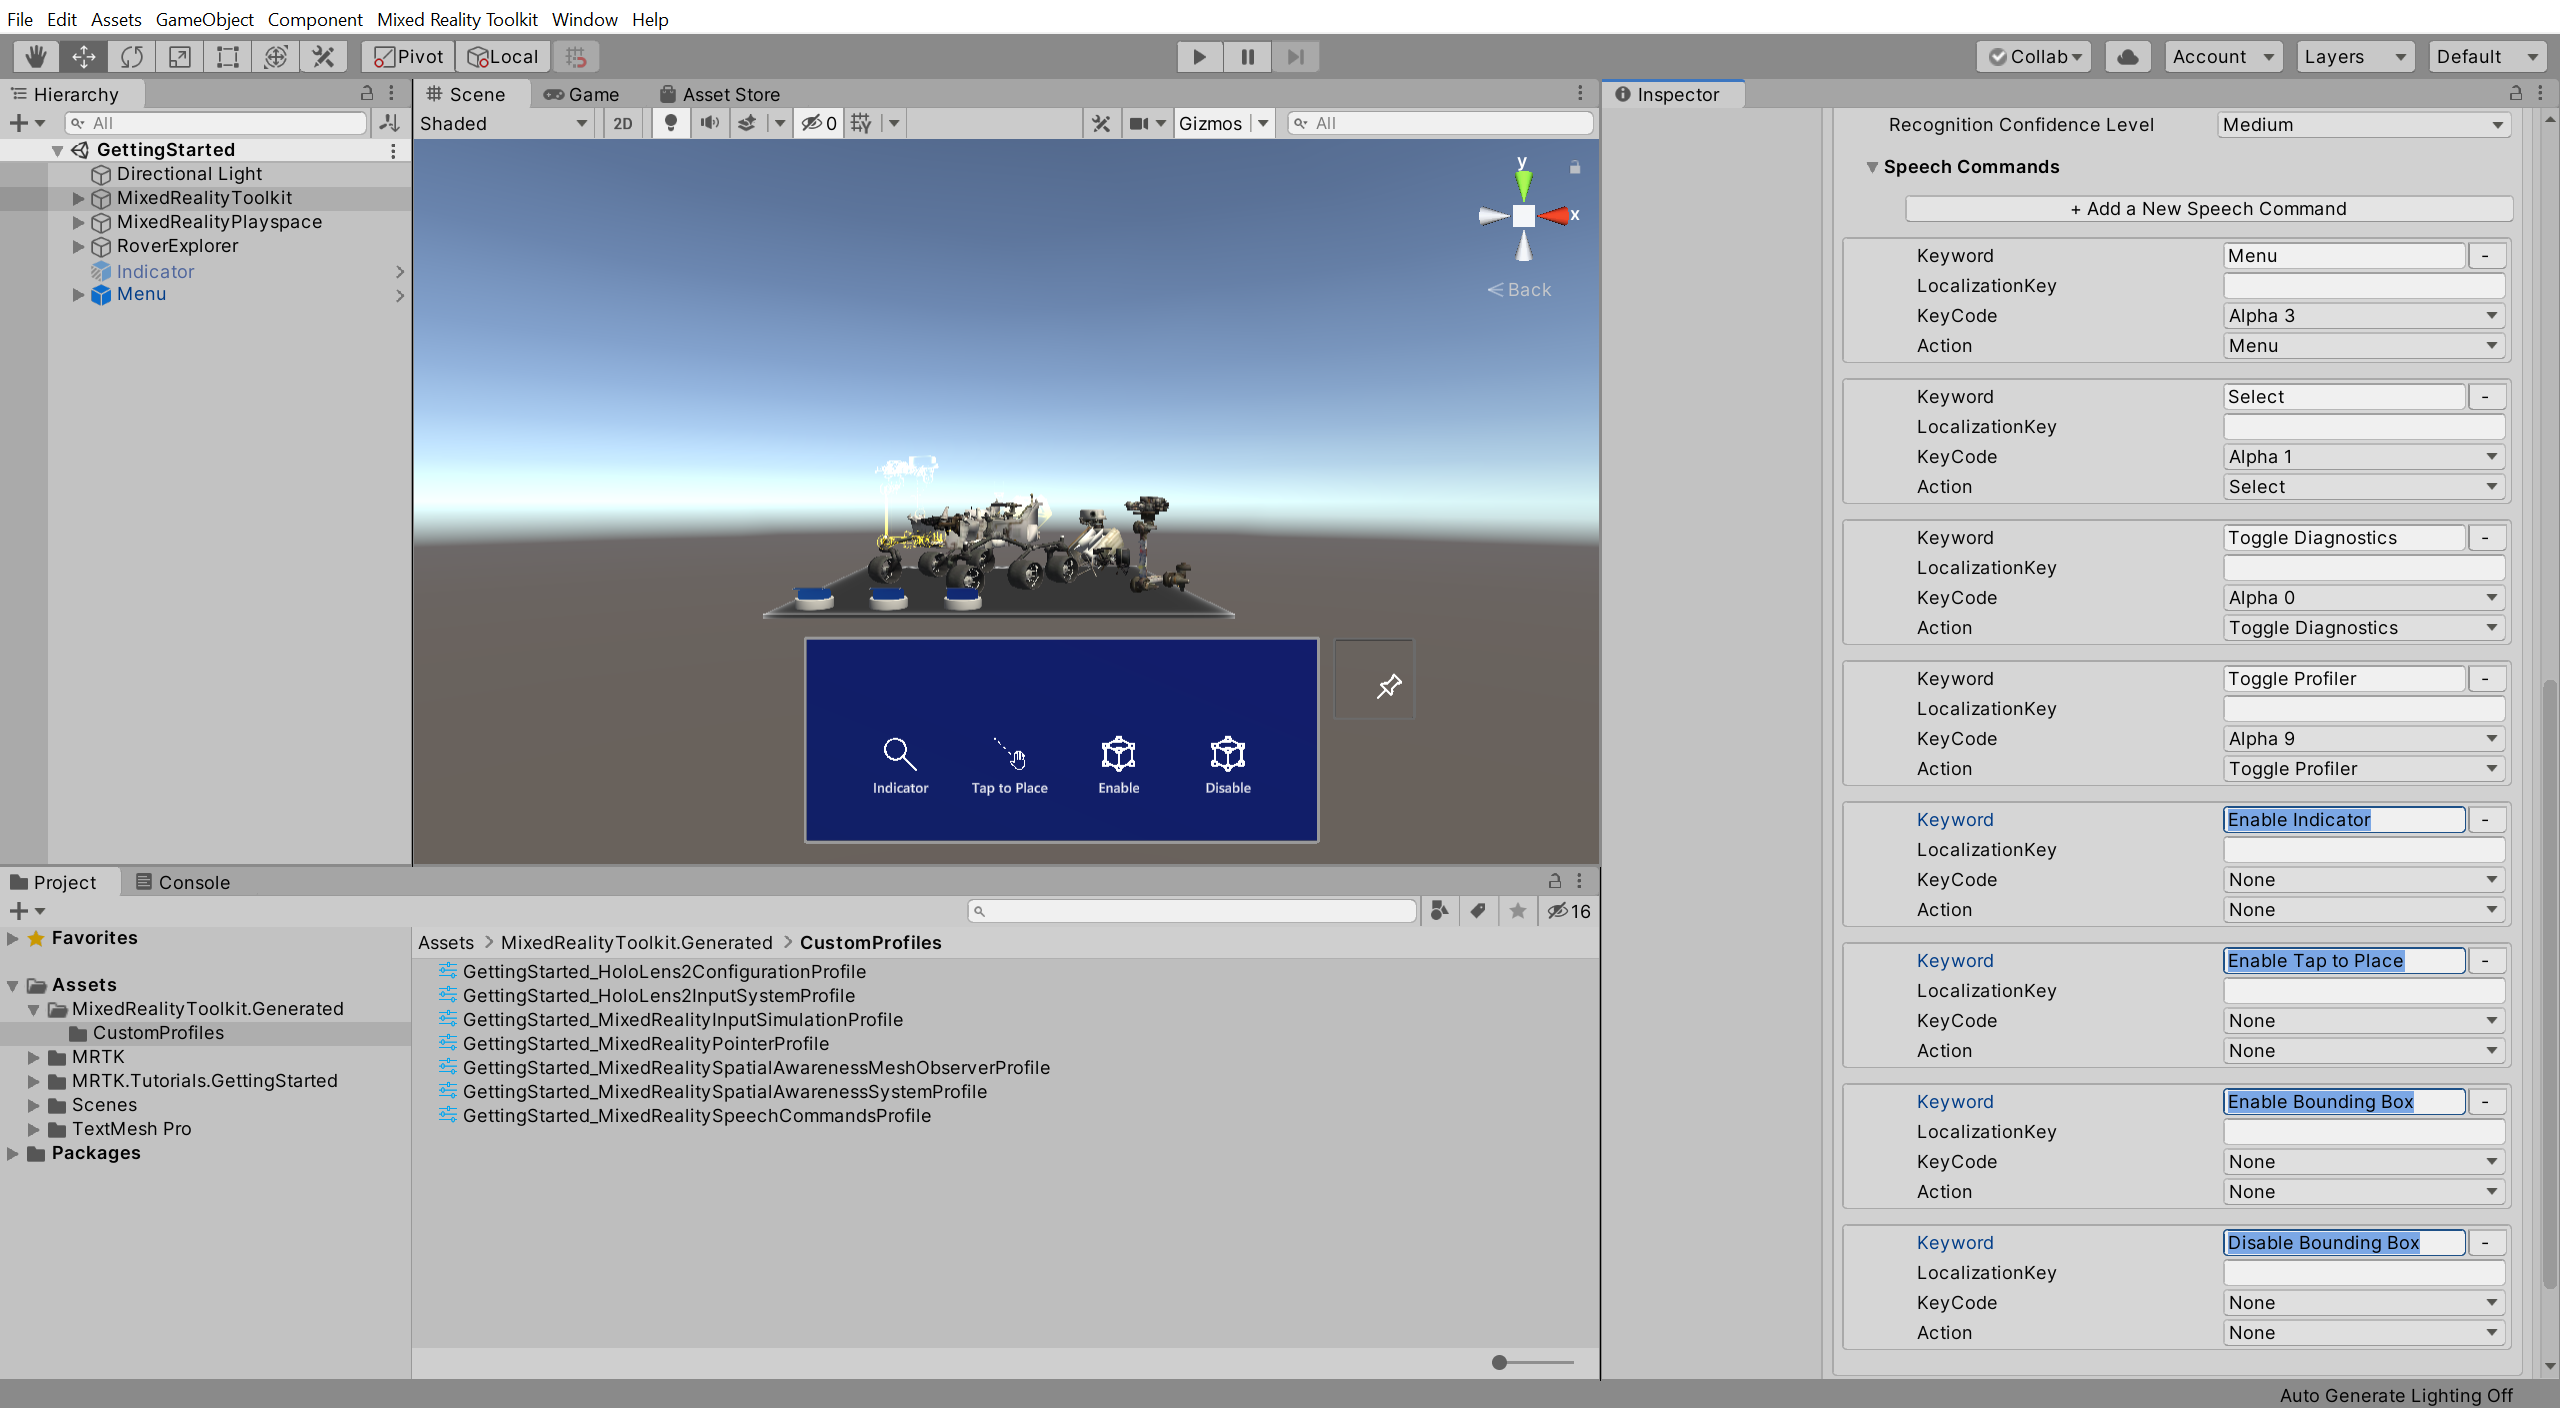
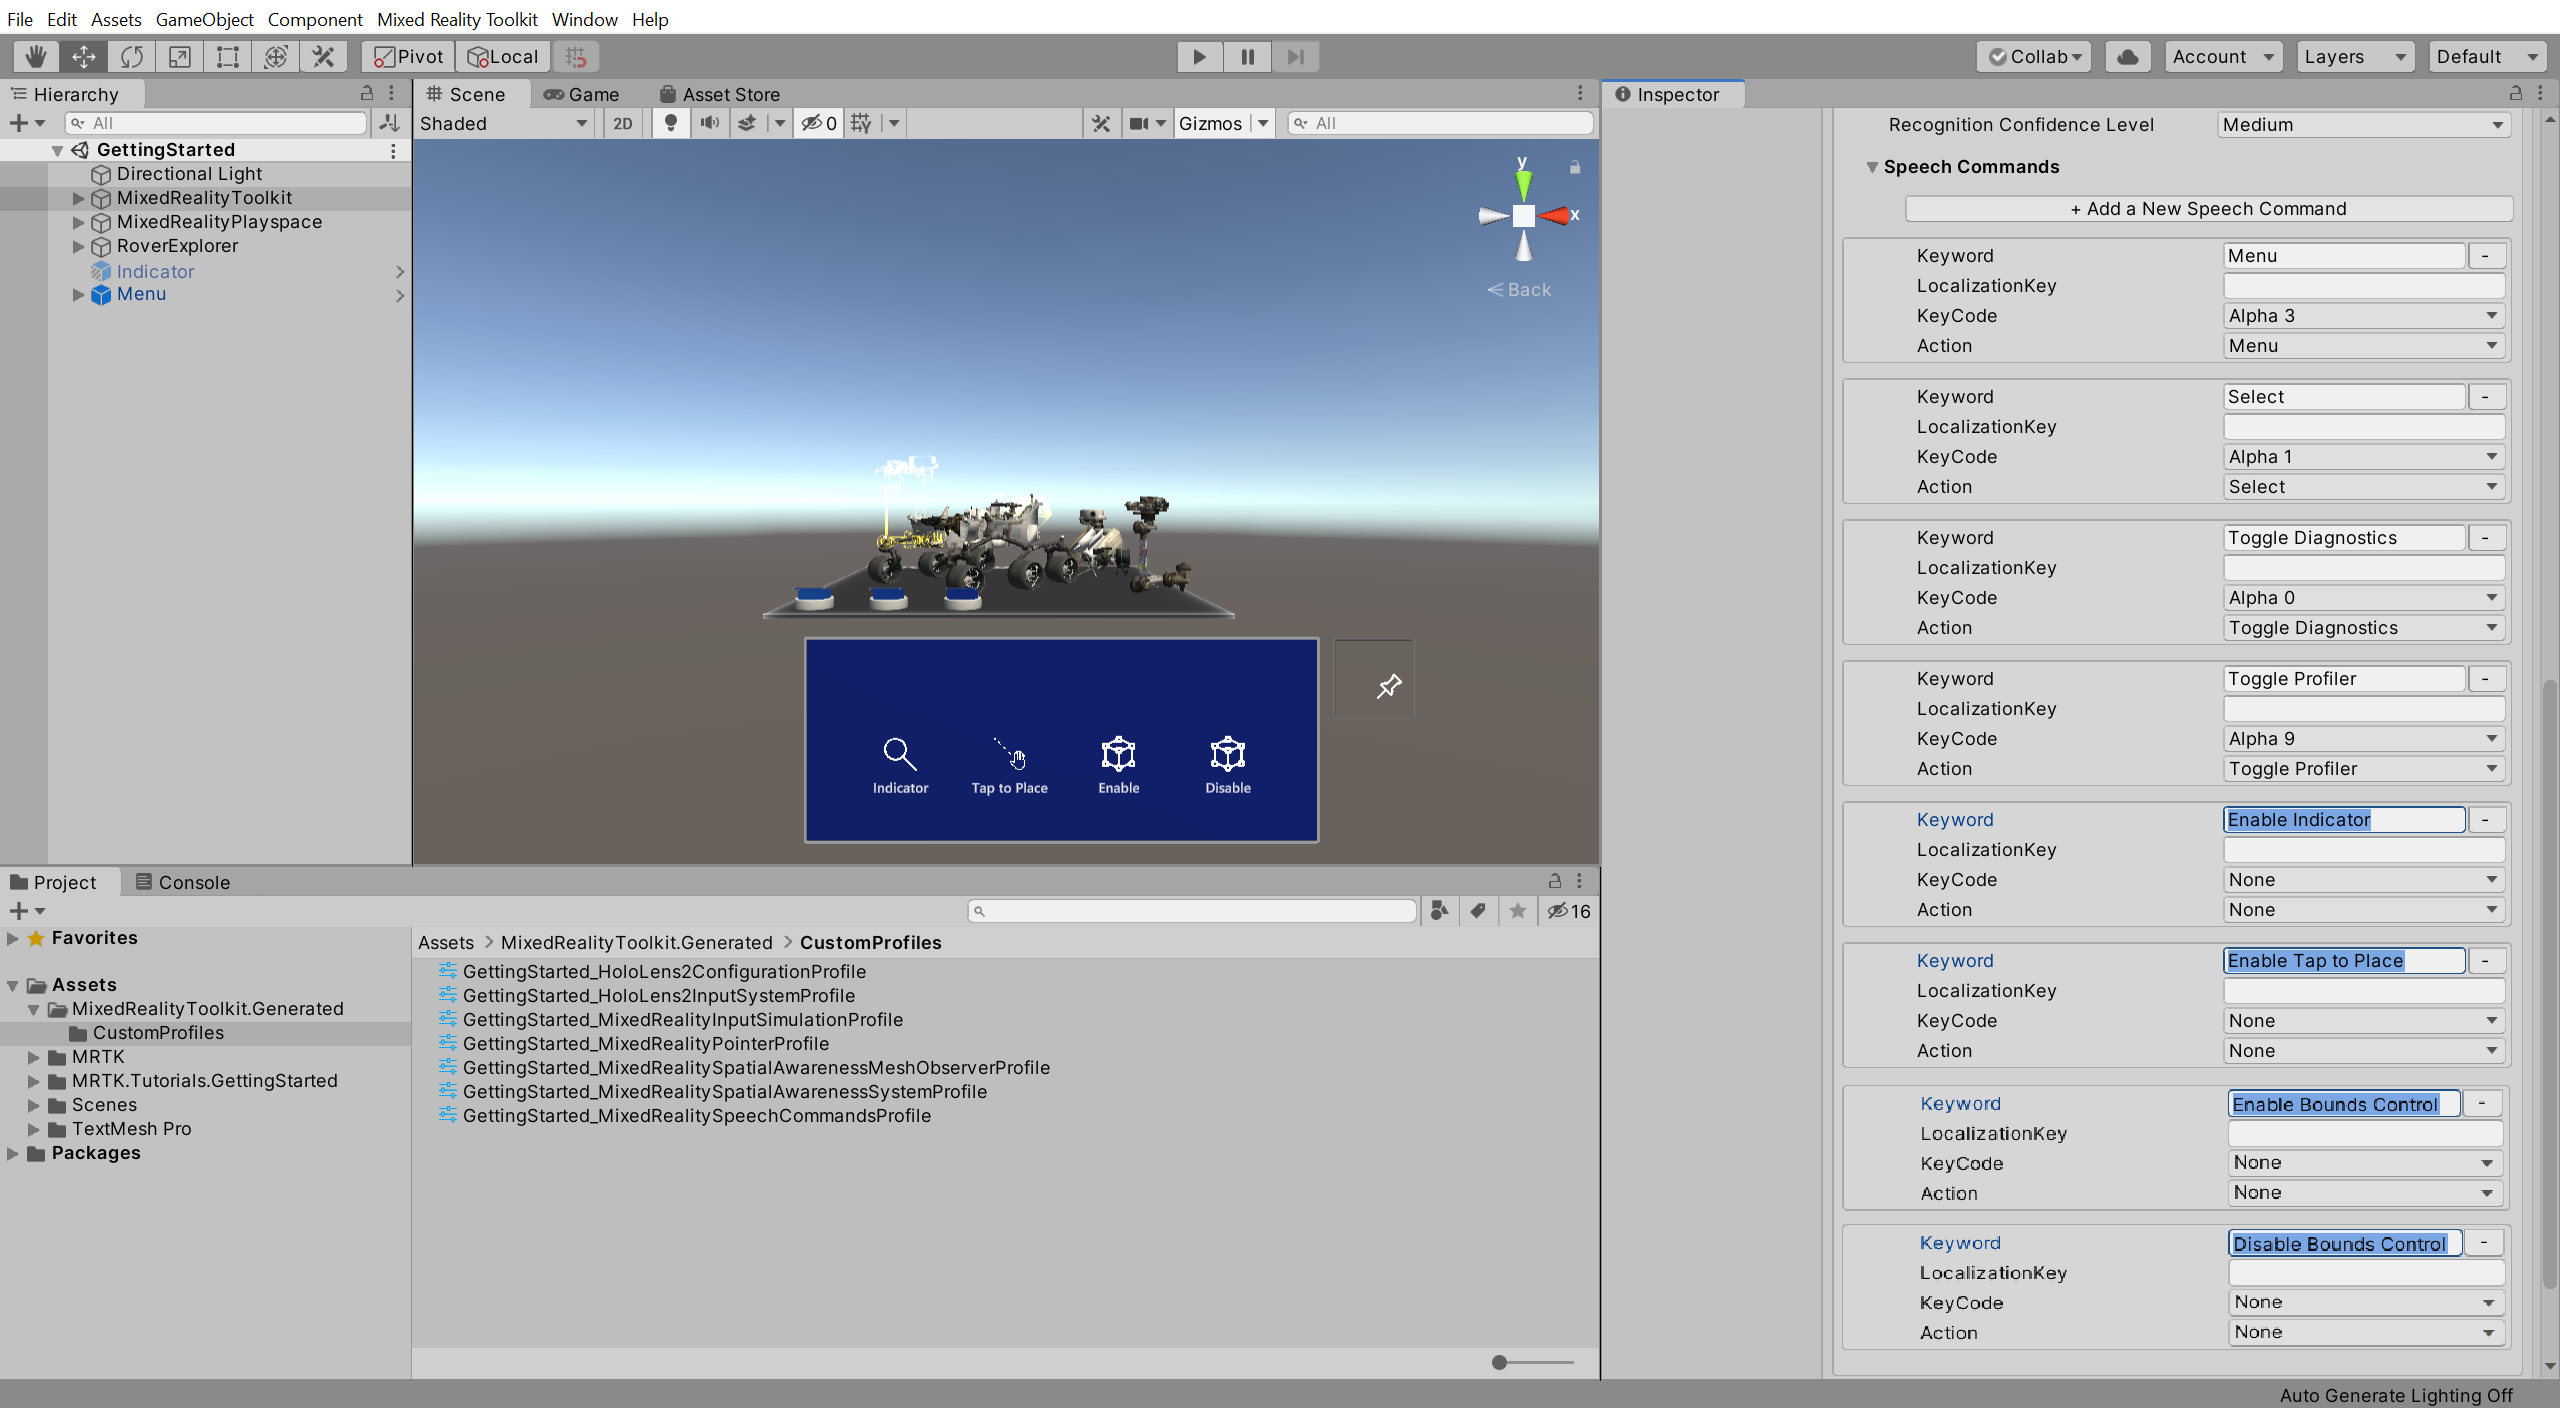
Bounding box changed to bounds control in ch9

Changed region(s): [[0.8438, 0.75, 1.0, 0.9688], [0.75, 0.75, 0.8125, 0.9688]]

diff --git a/mixed-reality-docs/mr-dev-docs/develop/unity/tutorials/mr-learning-base-09.md b/mixed-reality-docs/mr-dev-docs/develop/unity/tutorials/mr-learning-base-09.md
@@ -44,8 +44,8 @@ In the Speech > **Speech Commands** section, click the **+ Add a New Speech Comm
 
 * Enable Indicator
 * Enable Tap to Place
-* Enable Bounding Box
-* Disable Bounding Box
+* Enable Bounds Control
+* Disable Bounds Control
 
 ![Adding new speech commands](images/mr-learning-base/base-09-section2-step1-2.png)
 
@@ -83,10 +83,10 @@ Expand **Element 0** and configure it as follows:
 
 Expand **Element 1** and configure it as follows:
 
-* In the **Keyword** field, enter **Enable Bounding Box**, to reference the Enable Bounding Box command you created in the previous section
+* In the **Keyword** field, enter **Enable Bounds Control**, to reference the Enable Bounds Control command you created in the previous section
 * Click the small **+** icon to add an event
 * From the Hierarchy window, assign the **RoverExplorer** object to the **None (Object)** field
-* From the **No Function** dropdown, select **BoundingBox** > **bool enabled** to update this property value when the event is triggered
+* From the **No Function** dropdown, select **BoundsControl** > **bool enabled** to update this property value when the event is triggered
 * Check the argument checkbox, so it is **checked**
 * Click the small **+** icon to add another event
 * From the Hierarchy window, assign the **RoverExplorer** object to the **None (Object)** field
@@ -97,10 +97,10 @@ Expand **Element 1** and configure it as follows:
 
 Expand **Element 2** and configure it as follows:
 
-* In the **Keyword** field, enter **Disable Bounding Box**, to reference the Disable Bounding Box command you created in the previous section
+* In the **Keyword** field, enter **Disable Bounds Control**, to reference the Disable Bounds Control command you created in the previous section
 * Click the small **+** icon to add an event
 * From the Hierarchy window, assign the **RoverExplorer** object to the **None (Object)** field
-* From the **No Function** dropdown, select **BoundingBox** > **bool enabled** to update this property value when the event is triggered
+* From the **No Function** dropdown, select **BoundsControl** > **bool enabled** to update this property value when the event is triggered
 * Verify that the argument checkbox is **unchecked**
 * Click the small **+** icon to add another event
 * From the Hierarchy window, assign the **RoverExplorer** object to the **None (Object)** field
